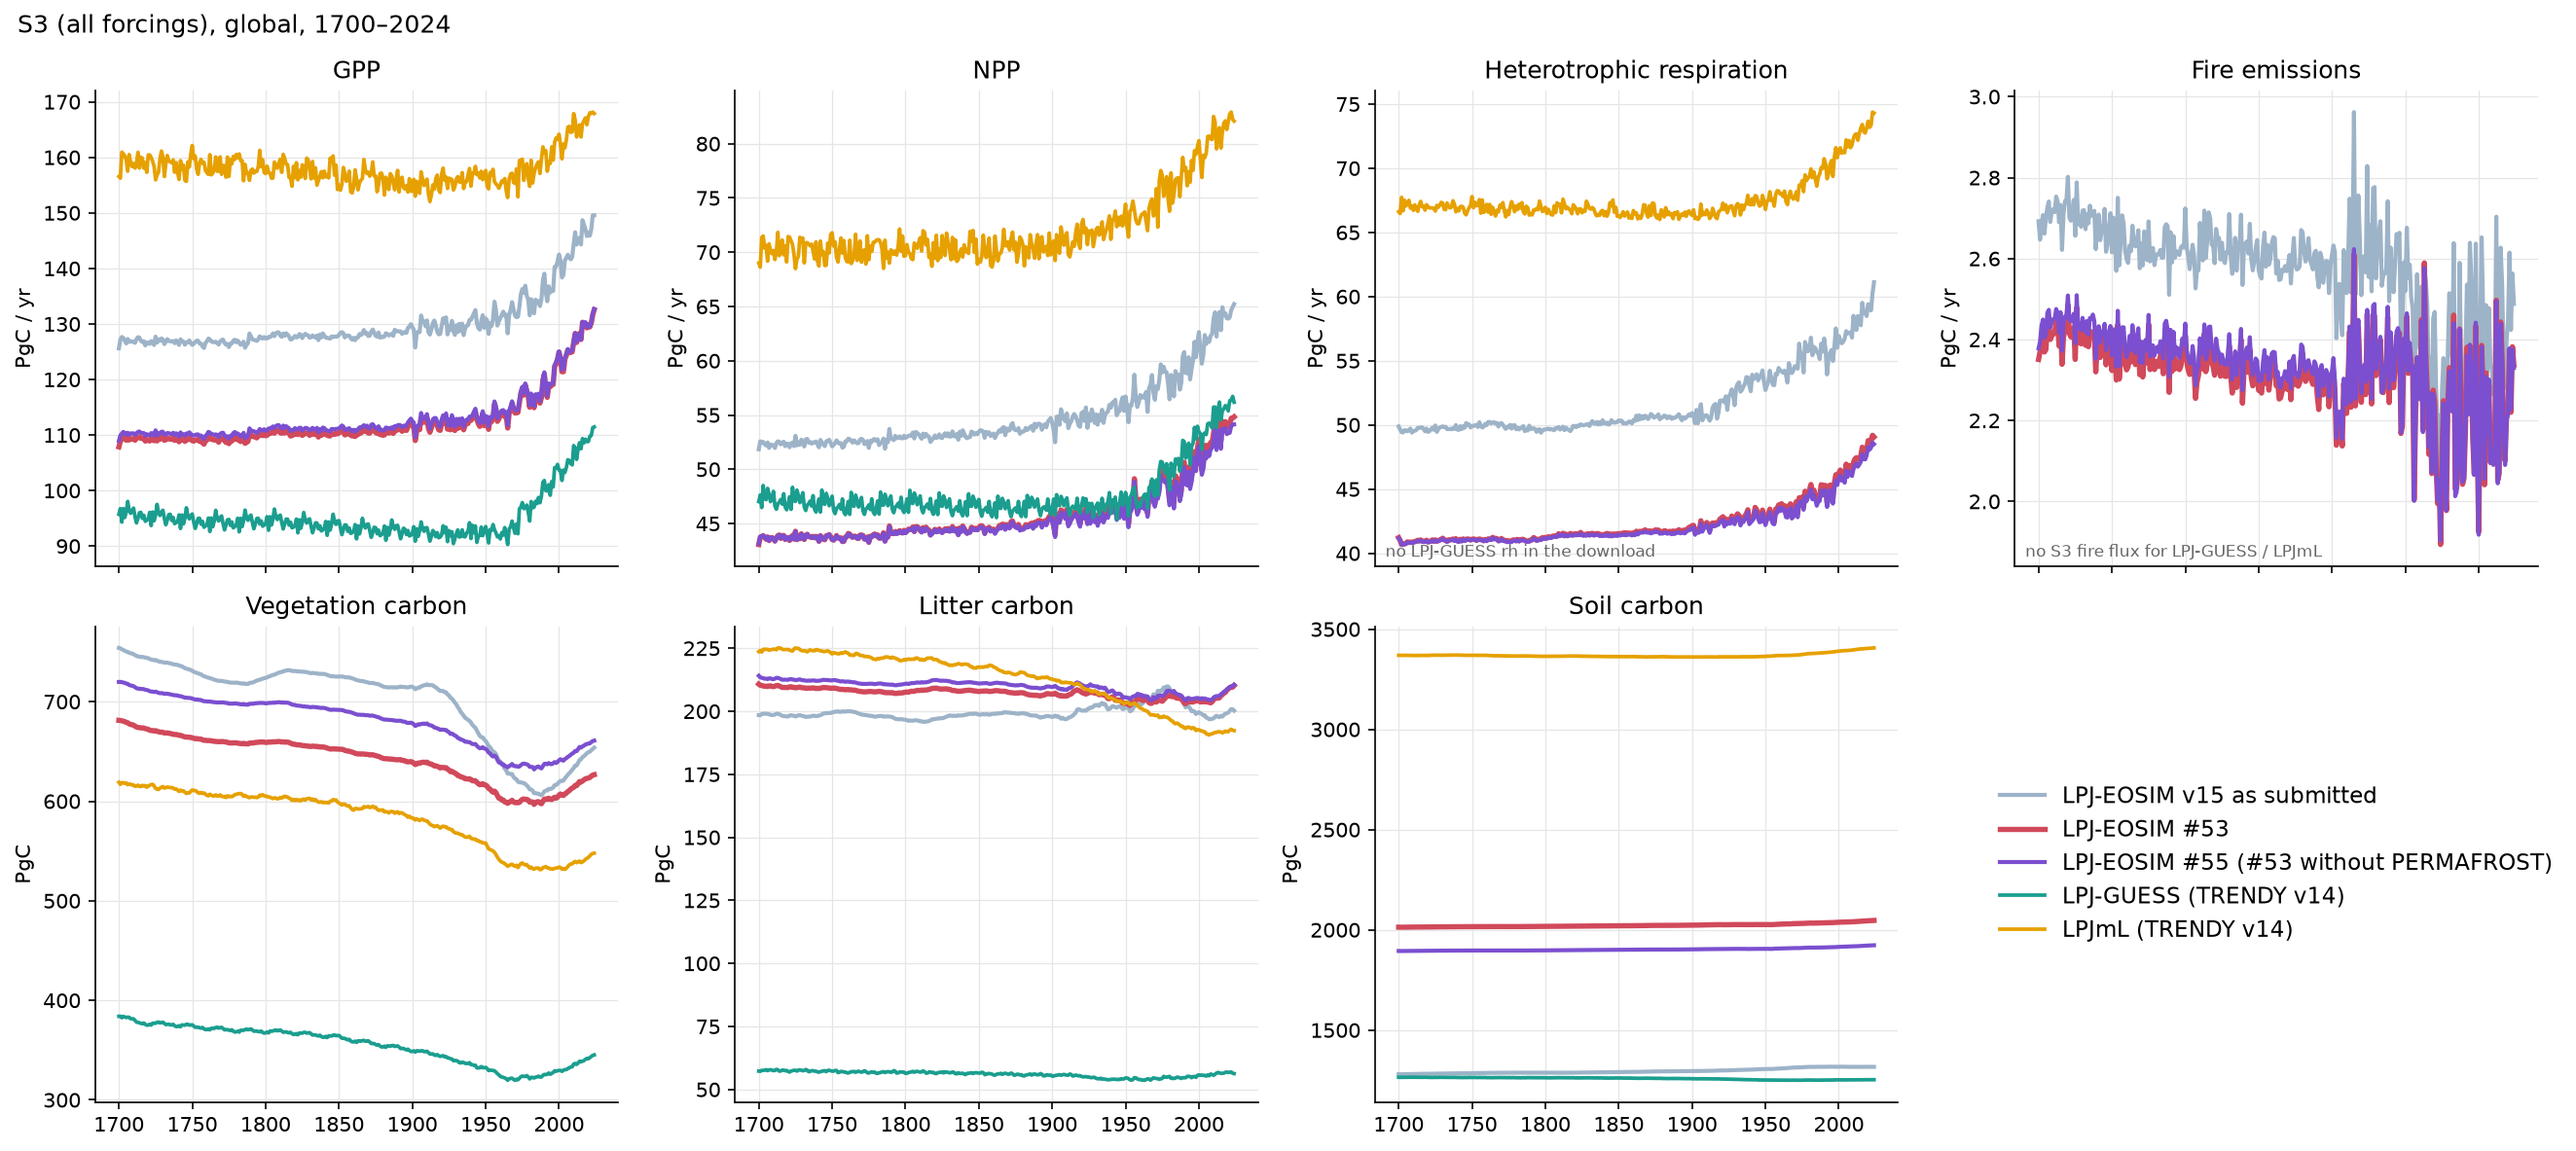
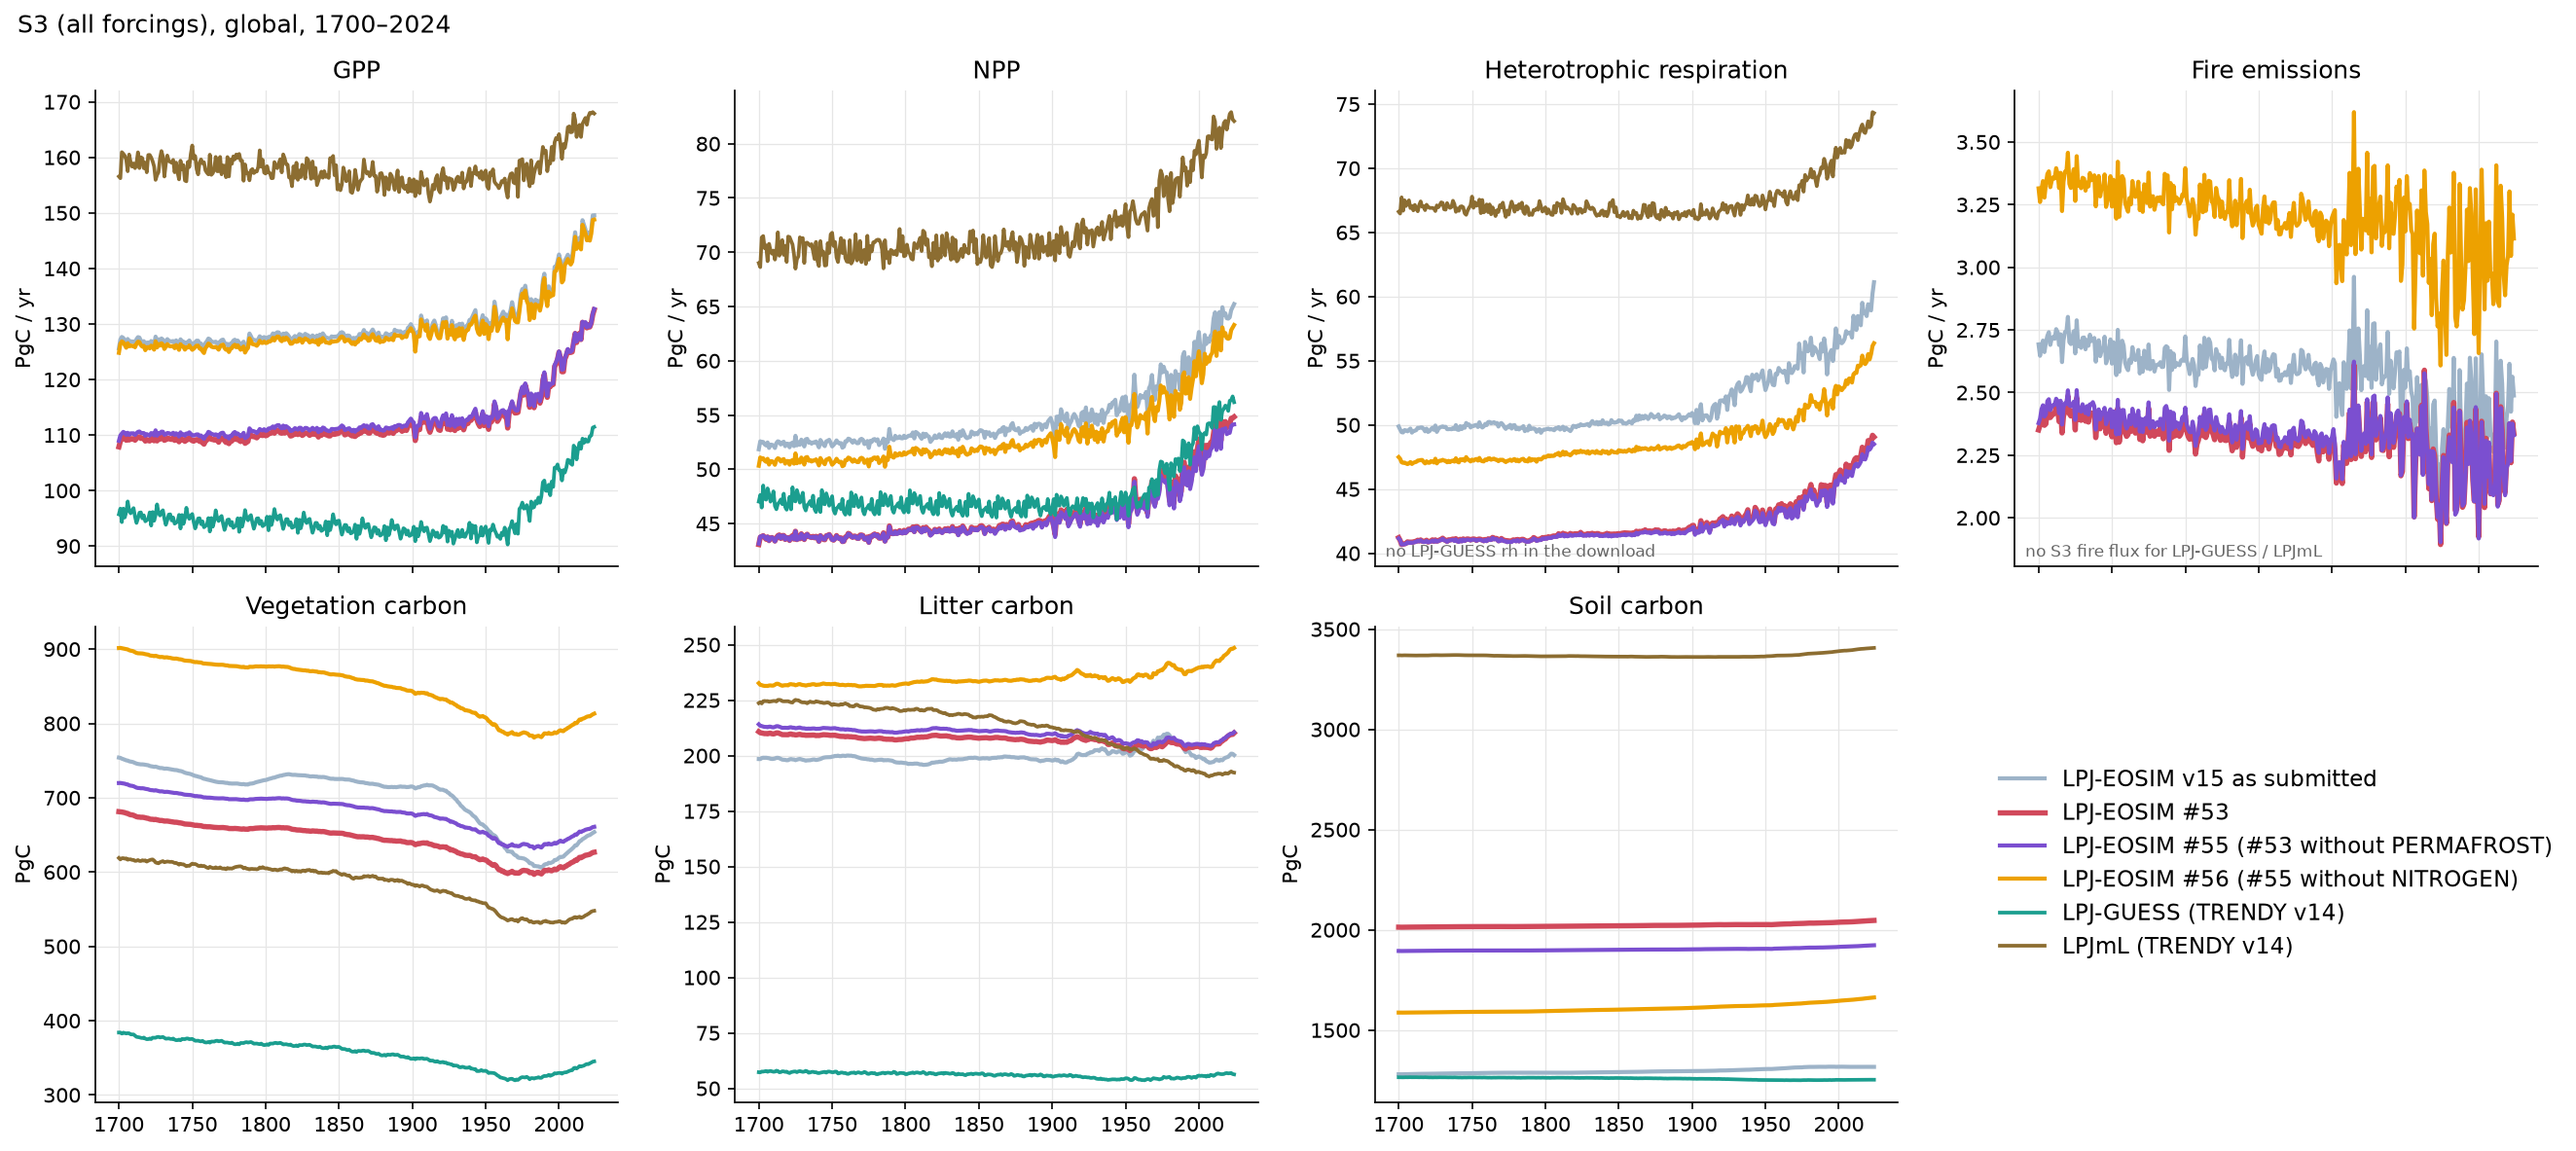
Climate-effect page: stocks and fluxes figures with #55 and #56

diff --git a/docs/trendyv15/climate_effect_53_55.md b/docs/trendyv15/climate_effect_53_55.md
@@ -113,7 +113,7 @@ changed nothing: the two grasses almost never share a cell.
 
 ## Global stocks and fluxes (S3)
 
-v15 as submitted, #53, #55, LPJ-GUESS and LPJmL (TRENDY v14):
+v15 as submitted, #53, #55, #56, LPJ-GUESS and LPJmL (TRENDY v14):
 
 ![S3 stocks and fluxes 1960–2024](img/climate_effect_53_55/s3_stocks_fluxes_family_1960.png)
 
@@ -125,14 +125,16 @@ v15 as submitted, #53, #55, LPJ-GUESS and LPJmL (TRENDY v14):
 
 ## Climate effect over time (S3 − S5)
 
-v15 as submitted, #49, #51 and #53. Upper rows: S3; lower figure: S3 − S5 for every stock and flux.
+v15 as submitted, #53, #55 and #56. First figure: S3; second: S3 − S5 for every stock and flux.
 
 ![S3 stocks and fluxes](img/climate_effect_53_55/stocks_fluxes_S3.png)
 
 ![S3 − S5 stocks and fluxes](img/climate_effect_53_55/stocks_fluxes_S3_minus_S5.png)
 
-k_mort 0.2 halves the S3 − S5 vegetation loss; litter loses ~3 PgC more (more dead wood). GPP, NPP and Ra
-are unchanged from #51: k_mort changes residence time, not productivity.
+The three fix runs share almost the same S3 − S5 vegetation loss (about −25 PgC by 2024, against −84 for v15
+as submitted). Without N (#56) the soil loss is larger (about −21 vs −14 PgC). Against #51 (k_mort 0.5, not
+shown), k_mort 0.2 halves the vegetation loss and leaves GPP, NPP and Ra unchanged: it changes residence
+time, not productivity.
 
 ## Nitrogen cycle
 
